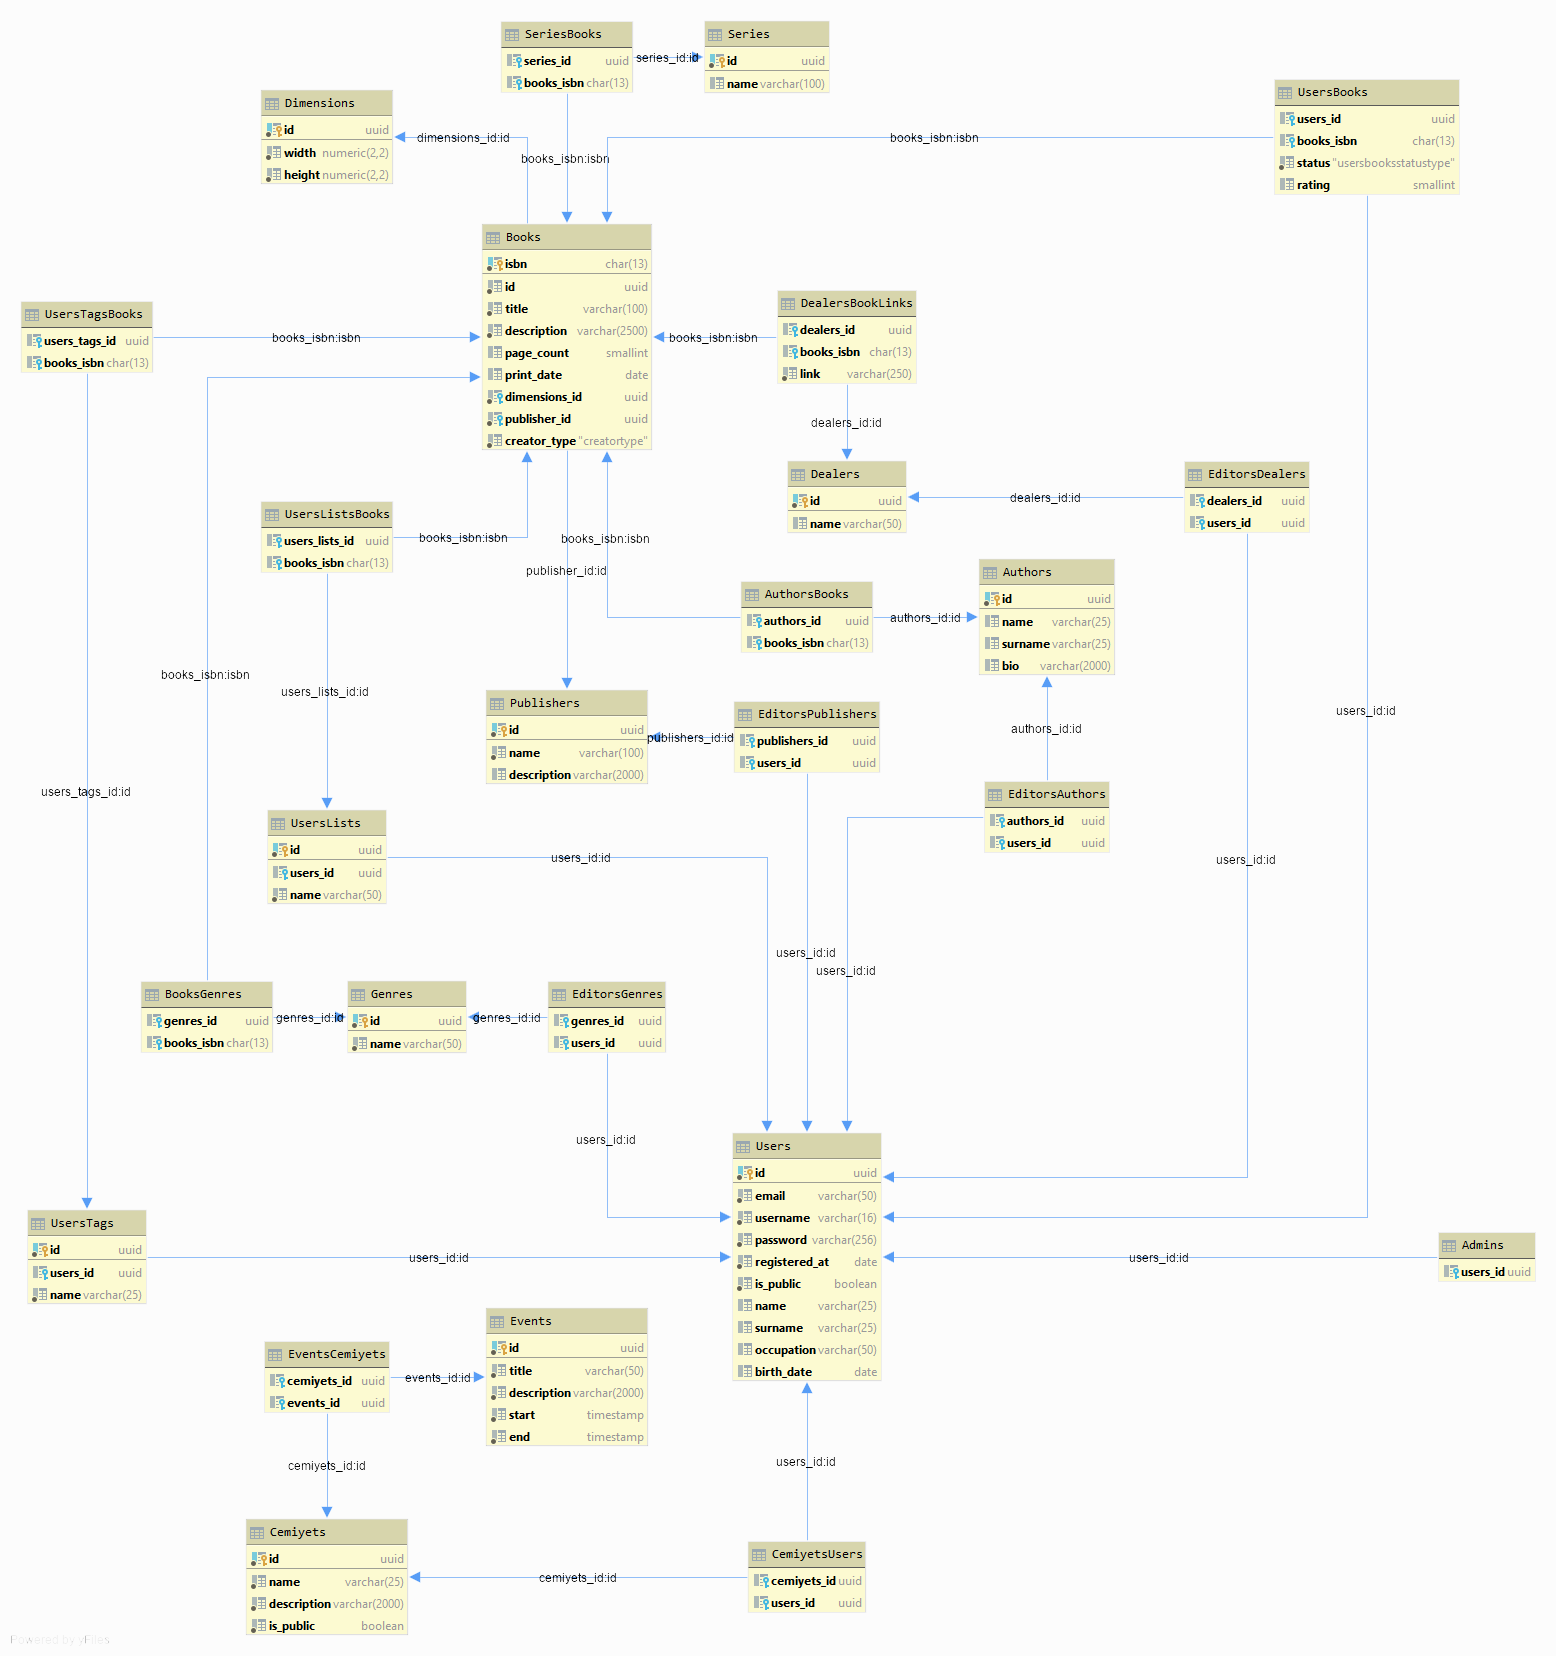
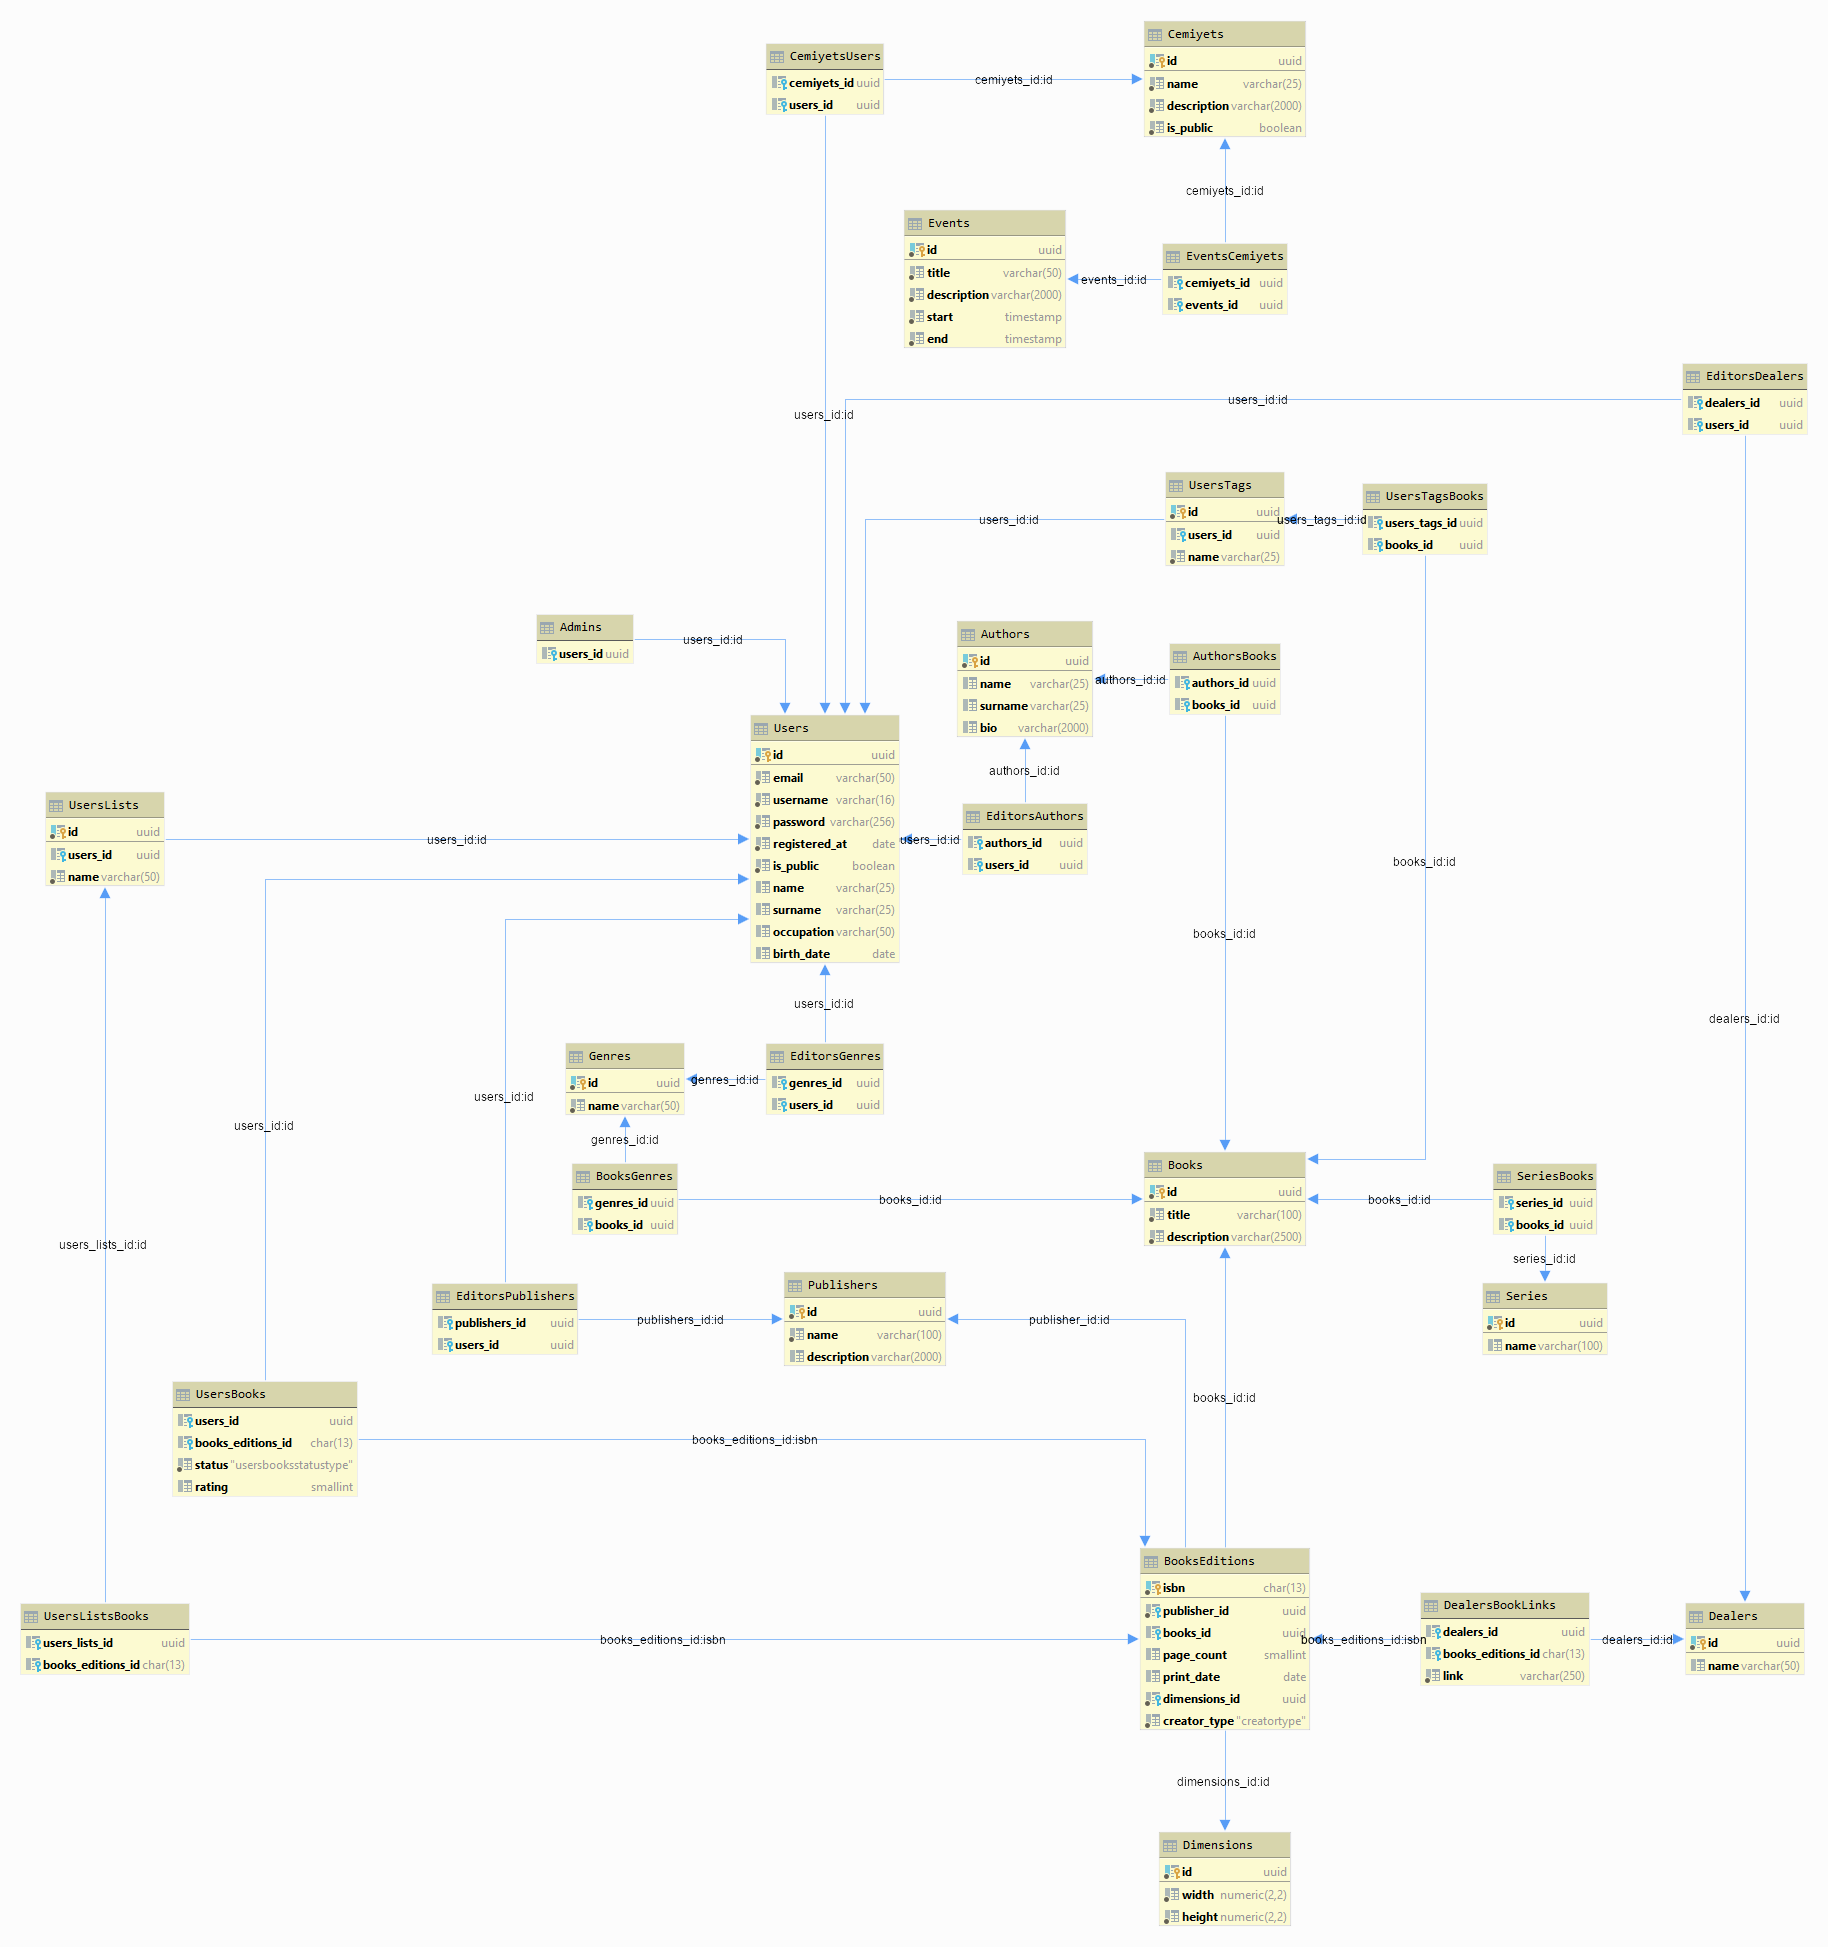
Deployed ce024cf with MkDocs version: 1.0.4

diff --git a/back-end/index.html b/back-end/index.html
@@ -276,16 +276,9 @@
 <p><strong>Filtering</strong></p>
 <p>For any filterable resource there will be filter query.</p>
 <p>For example;</p>
-<pre><code>GET /users?IsPublic=true
+<pre><code>GET /users?is_public=true
 </code></pre>
 <p>Will return only users with public profile.</p>
-<hr />
-<p><strong>Sorting</strong></p>
-<p>For any sortable resource there will be query for sorting.</p>
-<p>For example;</p>
-<pre><code>GET /books?sortDescending=PrintDate
-</code></pre>
-<p>Will return latest (30) printed books.</p>
 <hr />
 <p><strong>Paging</strong></p>
 <p>Default page size is 30 items. (This can be changed in the implementation.)</p>
@@ -310,6 +303,281 @@
 <p>PostgreSQL 12 will be main choice until MVP.</p>
 <hr />
 <h2 id="endpoints">Endpoints</h2>
+<p>This section will be replaced eventually by API documentation.</p>
+<p><strong>Dimensions</strong></p>
+<p>dimension_id : uuid<br />
+page : int<br />
+dimension_ids: uuid array</p>
+<table>
+<thead>
+<tr>
+<th>Method</th>
+<th>Endpoint</th>
+</tr>
+</thead>
+<tbody>
+<tr>
+<td>POST</td>
+<td>/dimensions</td>
+</tr>
+<tr>
+<td>GET</td>
+<td>/dimensions</td>
+</tr>
+<tr>
+<td>GET</td>
+<td>/dimensions?page={{page}}</td>
+</tr>
+<tr>
+<td>GET</td>
+<td>/dimensions/{{dimension_id}}</td>
+</tr>
+<tr>
+<td>PUT</td>
+<td>/dimensions/{{dimension_id}}</td>
+</tr>
+<tr>
+<td>PATCH</td>
+<td>/dimensions/{{dimension_id}}</td>
+</tr>
+<tr>
+<td>DELETE</td>
+<td>/dimensions/{{dimension_id}}</td>
+</tr>
+<tr>
+<td>DELETE</td>
+<td>/dimensions/{{dimension_ids}}</td>
+</tr>
+</tbody>
+</table>
+<p><strong>Genres</strong></p>
+<p>genre_id : uuid<br />
+page : int<br />
+genre_ids: uuid array</p>
+<table>
+<thead>
+<tr>
+<th>Method</th>
+<th>Endpoint</th>
+</tr>
+</thead>
+<tbody>
+<tr>
+<td>POST</td>
+<td>/genres</td>
+</tr>
+<tr>
+<td>GET</td>
+<td>/genres</td>
+</tr>
+<tr>
+<td>GET</td>
+<td>/genres?page={{page}}</td>
+</tr>
+<tr>
+<td>GET</td>
+<td>/genres/{{genre_id}}</td>
+</tr>
+<tr>
+<td>PUT</td>
+<td>/genres/{{genre_id}}</td>
+</tr>
+<tr>
+<td>PATCH</td>
+<td>/genres/{{genre_id}}</td>
+</tr>
+<tr>
+<td>DELETE</td>
+<td>/genres/{{genre_id}}</td>
+</tr>
+<tr>
+<td>DELETE</td>
+<td>/genres/{{genre_ids}}</td>
+</tr>
+</tbody>
+</table>
+<p><strong>Authors</strong></p>
+<p>author_id : uuid<br />
+page : int<br />
+author_ids: uuid array</p>
+<table>
+<thead>
+<tr>
+<th>Method</th>
+<th>Endpoint</th>
+</tr>
+</thead>
+<tbody>
+<tr>
+<td>POST</td>
+<td>/authors</td>
+</tr>
+<tr>
+<td>GET</td>
+<td>/authors</td>
+</tr>
+<tr>
+<td>GET</td>
+<td>/authors?page={{page}}</td>
+</tr>
+<tr>
+<td>GET</td>
+<td>/authors/{{author_id}}</td>
+</tr>
+<tr>
+<td>PUT</td>
+<td>/authors/{{author_id}}</td>
+</tr>
+<tr>
+<td>PATCH</td>
+<td>/authors/{{author_id}}</td>
+</tr>
+<tr>
+<td>DELETE</td>
+<td>/authors/{{author_id}}</td>
+</tr>
+<tr>
+<td>DELETE</td>
+<td>/authors/{{author_ids}}</td>
+</tr>
+</tbody>
+</table>
+<p><strong>Publishers</strong></p>
+<p>publisher_id : uuid<br />
+page : int<br />
+publisher_ids: uuid array</p>
+<table>
+<thead>
+<tr>
+<th>Method</th>
+<th>Endpoint</th>
+</tr>
+</thead>
+<tbody>
+<tr>
+<td>POST</td>
+<td>/publishers</td>
+</tr>
+<tr>
+<td>GET</td>
+<td>/publishers</td>
+</tr>
+<tr>
+<td>GET</td>
+<td>/publishers?page={{page}}</td>
+</tr>
+<tr>
+<td>GET</td>
+<td>/publishers/{{publisher_id}}</td>
+</tr>
+<tr>
+<td>PUT</td>
+<td>/publishers/{{publisher_id}}</td>
+</tr>
+<tr>
+<td>PATCH</td>
+<td>/publishers/{{publisher_id}}</td>
+</tr>
+<tr>
+<td>DELETE</td>
+<td>/publishers/{{publisher_id}}</td>
+</tr>
+<tr>
+<td>DELETE</td>
+<td>/publishers/{{publisher_ids}}</td>
+</tr>
+</tbody>
+</table>
+<p><strong>EditorsPublishers</strong></p>
+<p>publisher_id : uuid<br />
+editor_id : uuid (user id)<br />
+editor_ids: uuid array (user ids)  </p>
+<table>
+<thead>
+<tr>
+<th>Method</th>
+<th>Endpoint</th>
+</tr>
+</thead>
+<tbody>
+<tr>
+<td>POST</td>
+<td>/publishers/{{publisher_id}}/editors</td>
+</tr>
+<tr>
+<td>GET</td>
+<td>/publishers/{{publisher_id}}/editors</td>
+</tr>
+<tr>
+<td>DELETE</td>
+<td>/publishers/{{publisher_id}}/editors/{{editor_id}}</td>
+</tr>
+<tr>
+<td>DELETE</td>
+<td>/publishers/{{publisher_id}}/editors/{{editor_ids}}</td>
+</tr>
+</tbody>
+</table>
+<p><strong>EditorsAuthors</strong></p>
+<p>author_id : uuid<br />
+editor_id : uuid (user id)<br />
+editor_ids: uuid array (user ids)  </p>
+<table>
+<thead>
+<tr>
+<th>Method</th>
+<th>Endpoint</th>
+</tr>
+</thead>
+<tbody>
+<tr>
+<td>POST</td>
+<td>/authors/{{author_id}}/editors</td>
+</tr>
+<tr>
+<td>GET</td>
+<td>/authors/{{author_id}}/editors</td>
+</tr>
+<tr>
+<td>DELETE</td>
+<td>/authors/{{author_id}}/editors/{{editor_id}}</td>
+</tr>
+<tr>
+<td>DELETE</td>
+<td>/authors/{{author_id}}/editors/{{editor_ids}}</td>
+</tr>
+</tbody>
+</table>
+<p><strong>EditorsGenres</strong></p>
+<p>genre_id : uuid<br />
+editor_id : uuid (user id)<br />
+editor_ids: uuid array (user ids)  </p>
+<table>
+<thead>
+<tr>
+<th>Method</th>
+<th>Endpoint</th>
+</tr>
+</thead>
+<tbody>
+<tr>
+<td>POST</td>
+<td>/genres/{{genre_id}}/editors</td>
+</tr>
+<tr>
+<td>GET</td>
+<td>/genres/{{genre_id}}/editors</td>
+</tr>
+<tr>
+<td>DELETE</td>
+<td>/genres/{{genre_id}}/editors/{{editor_id}}</td>
+</tr>
+<tr>
+<td>DELETE</td>
+<td>/genres/{{genre_id}}/editors/{{editor_ids}}</td>
+</tr>
+</tbody>
+</table>
               
             </div>
           </div>

diff --git a/data-specification/index.html b/data-specification/index.html
@@ -124,27 +124,27 @@
 <li>Publishers</li>
 <li>Translators ❓</li>
 <li>Members</li>
-<li>Dealers ❓</li>
+<li>Dealers</li>
 </ul>
 </li>
 <li><strong>2nd Generation (Depends on 1st Generation):</strong><ul>
 <li>Series</li>
 <li>Admins</li>
 <li>Editors</li>
-<li>Tags ❓</li>
-<li>Cemiyets ❓</li>
-<li>Ratings ❓</li>
+<li>UsersLists</li>
+<li>Tags</li>
+<li>Cemiyets</li>
 <li>Languages ❓</li>
 </ul>
 </li>
 <li><strong>3rd Generation (Depends on 1st &amp; 2nd Generations):</strong><ul>
-<li>Events ❓</li>
+<li>Events</li>
 </ul>
 </li>
 </ul>
 <h2 id="entity-relationship-diagram">Entity-Relationship Diagram</h2>
 <p>Status: Feature frozen until v0.6. New iteration will be held after the <em>Ratings &amp; Lists</em> update.</p>
-<p><img alt="Entity-Relationship Diagram v0.5" src="../img/ERD.png" title="Entity-Relationship Diagram v0.5" /></p>
+<p><img alt="Entity-Relationship Diagram v0.6" src="../img/ERD.png" title="Entity-Relationship Diagram v0.5" /></p>
 <p><strong>CreatorType</strong>;</p>
 <p>0 : admin<br />
 1 : genre_editor<br />

diff --git a/index.html b/index.html
@@ -196,5 +196,5 @@
 
 <!--
 MkDocs version : 1.0.4
-Build Date UTC : 2019-10-19 10:43:12
+Build Date UTC : 2019-10-19 18:52:14
 -->
